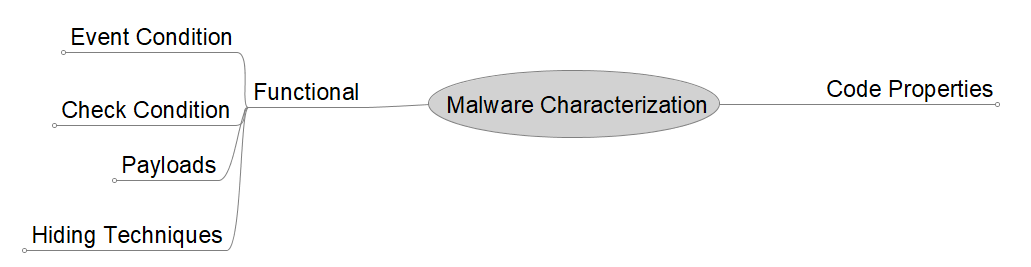
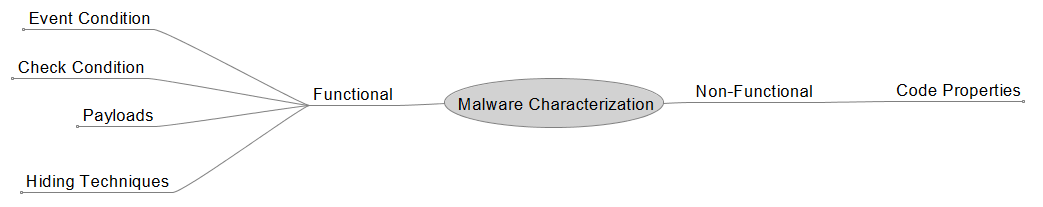
update website

diff --git a/docs/malwarecharacterization/malwarecharacterization.md b/docs/malwarecharacterization/malwarecharacterization.md
@@ -12,48 +12,50 @@ parent: Artifacts
 
 ## Overview
 
-TODO: Add description for overview of characteristics
-
 ![](../img/characteristic_overview.png)
 
+TODO: Add description for overview of characteristics
+
+---
+
+## Functional Categories
 ---
 
 ### Malware Event Conditions
 
-TODO: Add description for event conditions
-
 ![](../img/characteristic_eventconditions.png)
+
+TODO: Add description for event conditions
 
 ---
 
 ### Malware Check Conditions
 
-TODO: Add description for check conditions
-
 ![](../img/characteristic_checkconditions.png)
+
+TODO: Add description for check conditions
 
 ---
 
 ### Malware Payloads
 
-TODO: Add description for payloads
-
 ![](../img/characteristic_payloads.png)
 
----
-
 TODO: Add check payload portion of mind map focused
+
+---
 
 
 ### Hiding Techniques
 
-TODO: Add description for hiding techniques
-
 ![](../img/characteristic_hidingtechniques.png)
+
+TODO: Add hiding techniques portion of mind map focused
 
 ---
 
-TODO: Add hiding techniques portion of mind map focused
+## Non-Functional Categories
+---
 
 ## Flow-Based Malware Signatures
 ---

diff --git a/docs/toolcollection/toolcollection.md b/docs/toolcollection/toolcollection.md
@@ -12,5 +12,14 @@ parent: Artifacts
 ## Overview
 ---
 
+## Tool Selection
+
+TODO: Add surveys, conferences + journals
+
+---
+
+## Tool Categorization
+
 TODO: Add tools list and mind map
 
+---
